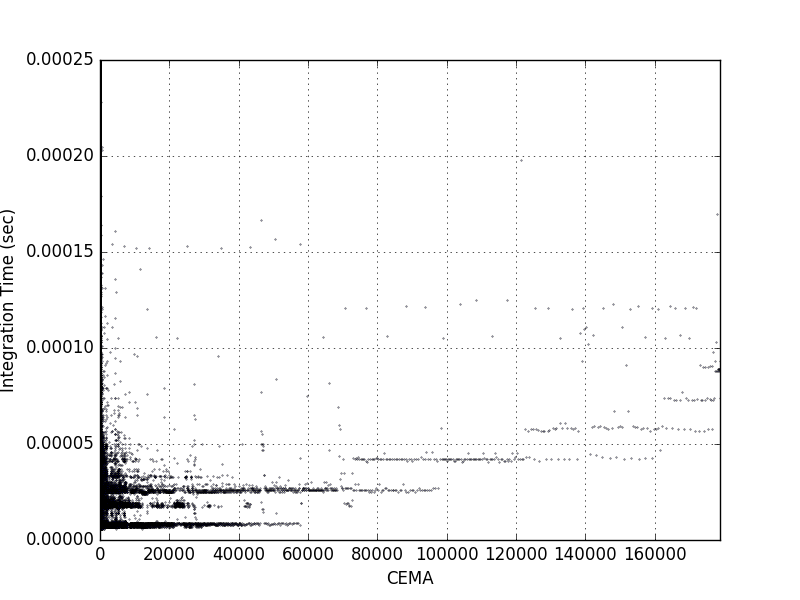
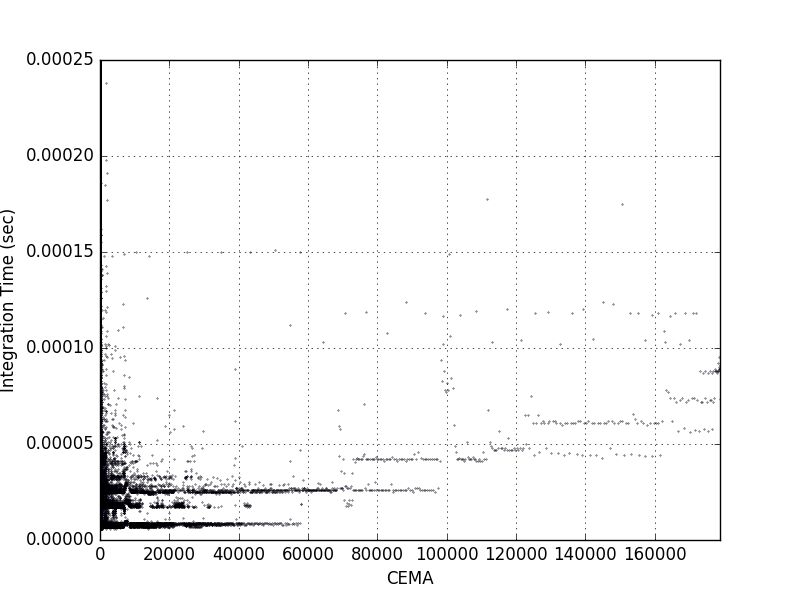
Reran all stiffness metrics.

diff --git a/A_Posteriori_Stiffness_Detection.py b/A_Posteriori_Stiffness_Detection.py
@@ -324,8 +324,9 @@ figformat = 'png'
 # Possible options will be 'VDP', 'Autoignition', or 'Oregonator'
 # Oregonator not yet implemented
 equation = 'Autoignition'
-# Possible options are 'Stiffness_Index', 'Stiffness_Indicator', 'CEMA'
-method = 'CEMA'
+# Possible options are 'Stiffness_Index', 'Stiffness_Indicator', 'CEMA',
+# 'Stiffness_Ratio'
+method = 'Stiffness_Indicator'
 # Make this true if you want to obtain the reference timescale of the stiffness
 # indicator.
 findtimescale = False
@@ -334,7 +335,7 @@ findtimescale = False
 PaSR = False
 pasrfilesloaded = 9
 # Define the range of the computation.
-dt = 1.e-7
+dt = 1.e-6
 tstart = 0.
 tstop = 0.5
 # ODE Solver parameters.
@@ -812,7 +813,10 @@ else:
     pyl.xlabel('Time (sec)')
     pyl.ylabel(method)
     pyl.xlim(plotx)
-    pyl.plot(tlist, stiffvalues)
+    if method == 'Stiffness_Ratio':
+        pyl.scatter(tlist, stiffvalues, 0.1)
+    else:
+        pyl.plot(tlist, stiffvalues)
     if method == 'Stiffness_Index' or method == 'Stiffness_Ratio':
         pyl.yscale('log')
     pyl.grid(b=True, which='both')
